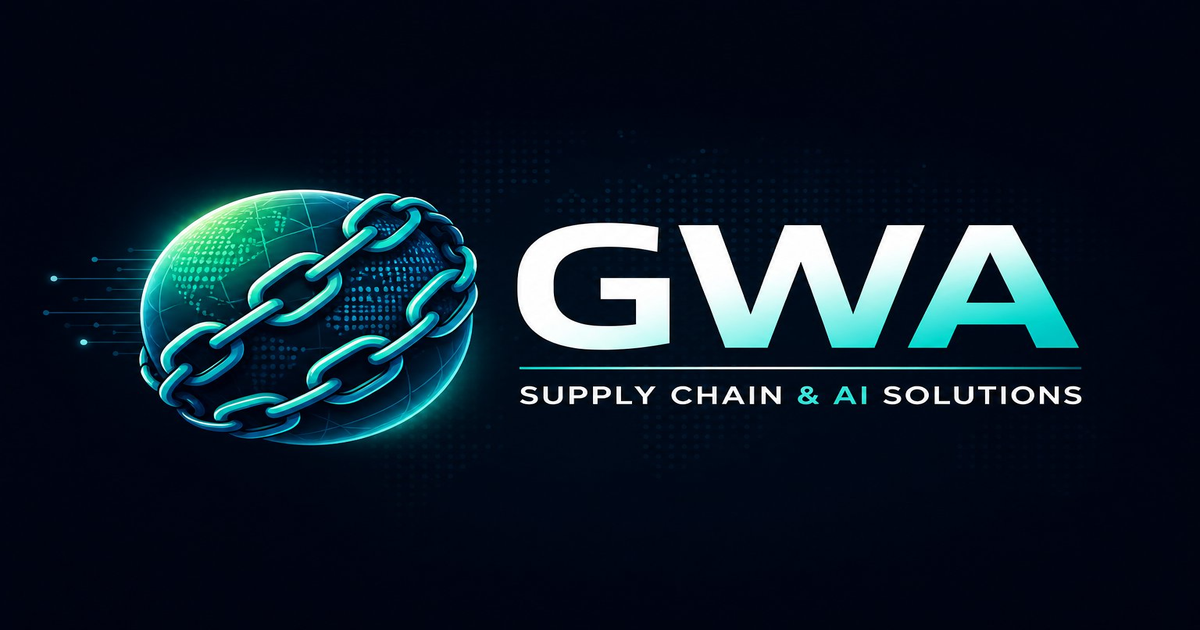
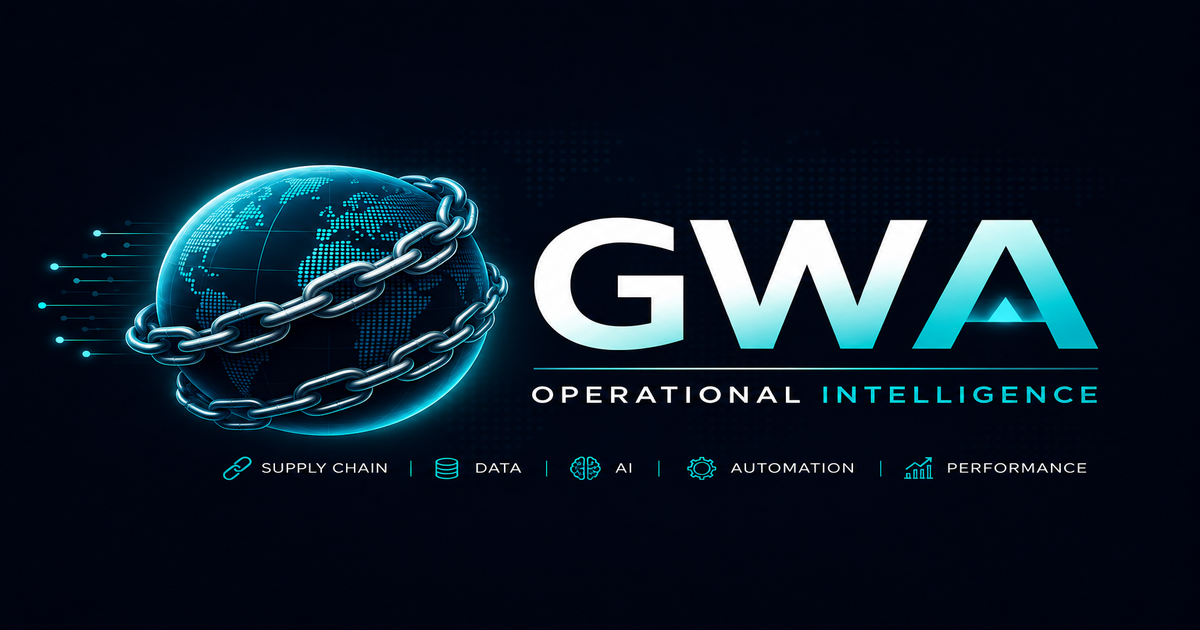
Add files via upload

diff --git a/index.html b/index.html
@@ -3,16 +3,16 @@
 <head>
 <meta charset="UTF-8"/>
 <meta name="viewport" content="width=device-width, initial-scale=1.0"/>
-<title>GWA Supply Chain & AI Solutions</title>
+<title>GWA Operational Intelligence</title>
 
-<meta name="description" content="GWA Supply Chain & AI Solutions — Onafhankelijk supply chain advies voor logistiek, productie en retail. Doe de gratis quickscan."/>
-<meta property="og:title" content="GWA Supply Chain & AI Solutions"/>
-<meta property="og:description" content="Wij verbinden alle schakels in uw keten. Doe de gratis supply chain quickscan."/>
+<meta name="description" content="GWA Operational Intelligence — Onafhankelijk supply chain advies voor logistiek, productie en retail. Doe de gratis quickscan."/>
+<meta property="og:title" content="GWA Operational Intelligence"/>
+<meta property="og:description" content="We identify hidden operational inefficiencies that silently reduce profitability. Doe de gratis supply chain quickscan."/>
 <meta property="og:type" content="website"/>
 <meta property="og:url" content="https://www.gwasupplychainsolutions.nl"/>
 <meta property="og:image" content="https://obuildapp2026.github.io/gwa-website/og-image.png"/>
 <meta name="twitter:card" content="summary_large_image"/>
-<meta name="twitter:title" content="GWA Supply Chain & AI Solutions"/>
+<meta name="twitter:title" content="GWA Operational Intelligence"/>
 <meta name="twitter:description" content="Wij verbinden alle schakels in uw keten."/>
 <link rel="icon" type="image/x-icon" href="favicon.ico"/>
 <link rel="icon" type="image/png" sizes="32x32" href="favicon-32.png"/>
@@ -772,7 +772,7 @@ footer{
 
 <!-- ─── NAV ─── -->
 <nav>
-  <a href="#hero" class="nav-logo"><img src="logo.svg" style="height:48px;width:auto;" alt="GWA Supply Chain & AI Solutions"/></a>
+  <a href="#hero" class="nav-logo"><img src="logo.png" style="height:48px;width:auto;" alt="GWA Operational Intelligence"/></a>
   <ul class="nav-links">
     <li><a href="#diensten">Diensten</a></li>
     <li><a href="#aanpak">Aanpak</a></li>
@@ -788,9 +788,10 @@ footer{
   <div class="hero-glow2"></div>
 
   <div class="hero-content">
-    <div class="hero-badge">Supply Chain Experts</div>
+    <div class="hero-badge">Operational Intelligence Experts</div>
     <h1>Wij verbinden<br><span class="accent">alle schakels</span><br>in uw keten</h1>
-    <p class="hero-sub">GWA Supply Chain & AI Solutions optimaliseert uw logistieke processen van inkoop tot levering. Strategisch advies, praktische uitvoering, meetbaar resultaat.</p>
+    <p class="hero-sub" style="font-style:italic;color:#00C9A7;font-weight:400;margin-bottom:16px;">"We identify hidden operational inefficiencies that silently reduce profitability."</p>
+    <p class="hero-sub">Wij identificeren verborgen operationele inefficiënties die ongemerkt winst vernietigen. We nemen al uw processen onder de loep — tot aan levering. Strategisch advies, praktische uitvoering, meetbaar resultaat.</p>
     <div class="hero-btns">
       <a href="#quickscan" class="btn-primary">
         Start gratis quickscan
@@ -808,7 +809,7 @@ footer{
 
   <!-- Globe visual -->
   <div class="hero-visual">
-    <img src="wereldbol.svg" style="width:100%;max-width:480px;filter:drop-shadow(0 0 60px rgba(0,201,167,0.25));" alt="GWA Wereldbol"/>
+    <img src="logo.png" style="width:100%;max-width:500px;filter:drop-shadow(0 0 40px rgba(0,201,167,0.3));" alt="GWA Wereldbol"/>
   </div>
 </section>
 
@@ -898,7 +899,7 @@ footer{
         <div class="over-card-header">
           <div class="over-avatar">G</div>
           <div>
-            <div class="over-name">GWA Supply Chain & AI Solutions</div>
+            <div class="over-name">GWA Operational Intelligence</div>
             <div class="over-role">Supply Chain Experts</div>
           </div>
         </div>
@@ -925,7 +926,7 @@ footer{
     <div class="over-content reveal">
       <div class="section-label">Over ons</div>
       <h2>Wij verbinden mensen, processen en systemen</h2>
-      <p>GWA Supply Chain & AI Solutions is opgericht vanuit een duidelijke visie: supply chain management moet simpeler, transparanter en effectiever. Wij helpen organisaties in logistiek, productie, retail en de publieke sector om hun keten te versterken.</p>
+      <p>GWA Operational Intelligence is opgericht vanuit een duidelijke visie: supply chain management moet simpeler, transparanter en effectiever. Wij helpen organisaties in logistiek, productie, retail en de publieke sector om hun keten te versterken.</p>
       <p>Met een team van ervaren supply chain professionals bieden wij onafhankelijk advies en hands-on ondersteuning — van quickscan tot volledige implementatie.</p>
       <ul class="usp-list">
         <li>Onafhankelijk en objectief advies</li>
@@ -1155,7 +1156,7 @@ footer{
 <!-- ─── FOOTER ─── -->
 <footer>
   <div class="footer-top">
-    <a href="#hero" class="nav-logo" style="text-decoration:none;"><img src="logo.svg" style="height:40px;width:auto;" alt="GWA"/></a>
+    <a href="#hero" class="nav-logo" style="text-decoration:none;"><img src="logo.png" style="height:40px;width:auto;" alt="GWA"/></a>
     <div class="footer-links">
       <a href="#diensten">Diensten</a>
       <a href="#aanpak">Aanpak</a>
@@ -1165,7 +1166,7 @@ footer{
     </div>
   </div>
   <div class="footer-bottom">
-    <div class="footer-copy">© 2026 GWA Supply Chain & AI Solutions. Alle rechten voorbehouden. &nbsp;|&nbsp; <a href="privacy.html" style="color:var(--teal);text-decoration:none;">Privacyverklaring</a></div>
+    <div class="footer-copy">© 2026 GWA Operational Intelligence. Alle rechten voorbehouden. &nbsp;|&nbsp; <a href="privacy.html" style="color:var(--teal);text-decoration:none;">Privacyverklaring</a></div>
     <div class="footer-copy">Gemaakt met <span class="footer-teal">♥</span> in Nederland</div>
   </div>
 </footer>

diff --git a/privacy.html b/privacy.html
@@ -3,8 +3,8 @@
 <head>
 <meta charset="UTF-8"/>
 <meta name="viewport" content="width=device-width, initial-scale=1.0"/>
-<title>Privacyverklaring — GWA Supply Chain & AI Solutions</title>
-<meta name="description" content="Privacyverklaring van GWA Supply Chain & AI Solutions. Lees hoe wij omgaan met uw persoonsgegevens."/>
+<title>Privacyverklaring — GWA Operational Intelligence</title>
+<meta name="description" content="Privacyverklaring van GWA Operational Intelligence. Lees hoe wij omgaan met uw persoonsgegevens."/>
 <meta name="robots" content="noindex"/>
 <link href="https://fonts.googleapis.com/css2?family=Syne:wght@400;600;700;800&family=DM+Sans:wght@300;400;500&display=swap" rel="stylesheet"/>
 <style>
@@ -80,7 +80,7 @@ footer a{color:var(--teal);text-decoration:none;}
       </g>
       <defs><linearGradient id="nl1" x1="0" y1="0" x2="36" y2="36" gradientUnits="userSpaceOnUse"><stop offset="0%" stop-color="#0E3D5C"/><stop offset="100%" stop-color="#00C9A7"/></linearGradient></defs>
     </svg>
-    <div class="nav-logo-text">GWA <span>SUPPLY CHAIN & AI</span></div>
+    <div class="nav-logo-text">GWA <span>OPERATIONAL INTELLIGENCE</span></div>
   </a>
   <a href="index.html" class="nav-back">← Terug naar website</a>
 </nav>
@@ -88,13 +88,13 @@ footer a{color:var(--teal);text-decoration:none;}
 <div class="container">
   <div class="hero-badge">Juridisch document</div>
   <h1>Privacyverklaring</h1>
-  <div class="meta">GWA Supply Chain & AI Solutions &nbsp;|&nbsp; Versie 1.0 &nbsp;|&nbsp; Laatst bijgewerkt: mei 2026 &nbsp;|&nbsp; KVK: [nummer]</div>
+  <div class="meta">GWA Operational Intelligence &nbsp;|&nbsp; Versie 1.0 &nbsp;|&nbsp; Laatst bijgewerkt: mei 2026 &nbsp;|&nbsp; KVK: [nummer]</div>
 
   <div class="section">
     <h2>1. Wie zijn wij?</h2>
-    <p>GWA Supply Chain & AI Solutions is een eenmanszaak gevestigd in Nederland, eigendom van Gert Wieringa. Wij bieden onafhankelijk advies en begeleiding op het gebied van supply chain management.</p>
+    <p>GWA Operational Intelligence is een eenmanszaak gevestigd in Nederland, eigendom van Gert Wieringa. Wij bieden onafhankelijk advies en begeleiding op het gebied van supply chain management.</p>
     <ul>
-      <li>Bedrijfsnaam: GWA Supply Chain & AI Solutions</li>
+      <li>Bedrijfsnaam: GWA Operational Intelligence</li>
       <li>Eigenaar: Gert Wieringa</li>
       <li>KVK-nummer: [invullen na inschrijving]</li>
       <li>E-mailadres: gert@gwasupplychainsolutions.nl</li>
@@ -151,7 +151,7 @@ footer a{color:var(--teal);text-decoration:none;}
       <li>Google Workspace (Gmail, Drive, Sheets) — voor e-mail en opslag</li>
       <li>n8n — voor procesautomatisering (verwerking van formulierdata)</li>
     </ul>
-    <p style="margin-top:16px;">Beide partijen zijn AVG-compliant en verwerken gegevens uitsluitend in opdracht van GWA Supply Chain & AI Solutions. Met beide partijen zijn verwerkersovereenkomsten van kracht.</p>
+    <p style="margin-top:16px;">Beide partijen zijn AVG-compliant en verwerken gegevens uitsluitend in opdracht van GWA Operational Intelligence. Met beide partijen zijn verwerkersovereenkomsten van kracht.</p>
     <div class="highlight">Uw gegevens worden niet gedeeld met andere bedrijven, adverteerders of derden.</div>
   </div>
 
@@ -210,7 +210,7 @@ footer a{color:var(--teal);text-decoration:none;}
 </div>
 
 <footer>
-  <p>© 2026 GWA Supply Chain & AI Solutions &nbsp;|&nbsp; <a href="index.html">Terug naar website</a> &nbsp;|&nbsp; KVK: [nummer]</p>
+  <p>© 2026 GWA Operational Intelligence &nbsp;|&nbsp; <a href="index.html">Terug naar website</a> &nbsp;|&nbsp; KVK: [nummer]</p>
 </footer>
 
 </body>

diff --git a/404.html b/404.html
@@ -3,7 +3,7 @@
 <head>
 <meta charset="UTF-8"/>
 <meta name="viewport" content="width=device-width, initial-scale=1.0"/>
-<title>Pagina niet gevonden — GWA Supply Chain & AI Solutions</title>
+<title>Pagina niet gevonden — GWA Operational Intelligence</title>
 <meta name="robots" content="noindex"/>
 <link href="https://fonts.googleapis.com/css2?family=Syne:wght@400;700;800&family=DM+Sans:wght@300;400&display=swap" rel="stylesheet"/>
 <style>
